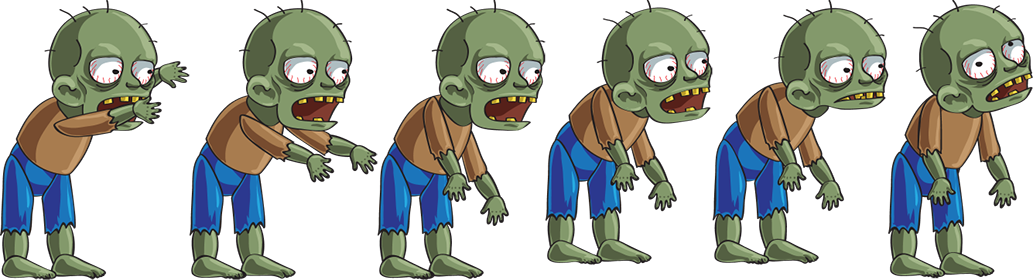
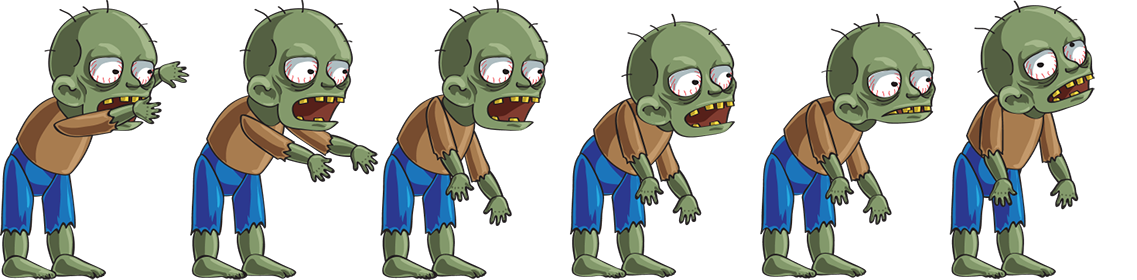
player movement

diff --git a/javascripts/GameObjects/Player.js b/javascripts/GameObjects/Player.js
@@ -11,6 +11,8 @@ class Player
         this.walking=new Animation('./images/walking.png',280,1196,129,64,8);
         this.shooting=new Animation('./images/shooting.png',280,1168,129,90,6);
         this.dead=new Animation('./images/dead.png',280,1504,129,116,6,false);
+        // this.jumpUp=new Animation('');
+        // this.fallingDown=new Animation('');
         this.whenDamaged=new Image();
         this.whenDamaged.src='./images/whenDamage.png';
 
@@ -45,9 +47,11 @@ class Player
             this.velocity.y-=118;
             inputController.reset();
         }
-        if(inputController.isKeyDown(32)&&this.onTheGround)
+        if(inputController.isKeyDown(32)&&this.onTheGround&&!this.shootingState)
         {
-           // this.shootingState=true;
+            this.shootingState=true;
+            this.animationState.current=this.animationState.shooting;
+            this.shooting.start();
             inputController.reset();
         }
     }
@@ -58,14 +62,20 @@ class Player
             if(this.velocity.x>2||this.velocity.x<-2)
             this.animationState.current=this.animationState.walking;
             else if(this.shootingState)
-            this.animationState.current=this.animationState.shooting;
+            {
+                console.log(this.shooting.getFrameIndex());
+                if(this.shooting.getFrameIndex()==5)
+                {
+                    this.shootingState=false;
+                }     
+            }
             else
             this.animationState.current=this.animationState.idle;
 
-            if(this.velocity.x<=0)
-            this.mirrored=1;
-            else
+            if(this.velocity.x>=0)
             this.mirrored=0;
+            else
+            this.mirrored=1;
 
             this.position.x+=this.velocity.x;
             this.velocity.x*=this.friction;
@@ -95,18 +105,18 @@ class Player
             // canvasContext.fillRect(0,0,this.width,this.height);
             if(this.previousHealth!=this.health)
             {
-                canvasContext.drawImage(this.whenDamaged,0,0,116,129);
+                canvasContext.drawImage(this.whenDamaged,-25,0,116,129);
             }
             else
             {
                 if(this.animationState.current==this.animationState.idle)
-            this.idle.draw(canvasContext,0,0);
-            if(this.animationState.current==this.animationState.walking)
-            this.walking.draw(canvasContext,0,0);
-            if(this.animationState.current==this.animationState.shooting)
-            this.shooting.draw(canvasContext,0,0);
-            if(this.animationState.current==this.animationState.dead)
-            this.dead.draw(canvasContext,0,0);
+                this.idle.draw(canvasContext,0,0);
+                if(this.animationState.current==this.animationState.walking)
+                this.walking.draw(canvasContext,0,0);
+                if(this.animationState.current==this.animationState.shooting)
+                this.shooting.draw(canvasContext,0,0);
+                if(this.animationState.current==this.animationState.dead)
+                this.dead.draw(canvasContext,-25,0);
             }
             
             canvasContext.restore();
@@ -128,7 +138,7 @@ class Player
             if(this.animationState.current==this.animationState.shooting)
             this.shooting.draw(canvasContext,this.position.x,this.position.y);
             if(this.animationState.current==this.animationState.dead)
-            this.dead.draw(canvasContext,this.position.x,this.position.y);
+            this.dead.draw(canvasContext,this.position.x-25,this.position.y);
             }
         }
         this.previousHealth=this.health;

diff --git a/javascripts/GameObjects/Enemy/Zombie.js b/javascripts/GameObjects/Enemy/Zombie.js
@@ -8,8 +8,8 @@ class Zombie
         this.animationState={current:0,idle:0,walking:1,shooting:2};
         
         this.idle=new Animation('./images/zombie_idle.png',280,700,111,69,4);
-        this.walking=new Animation('./images/zombie_walking.png',280,887,111,70,6);
-        this.attacking=new Animation('./images/zombie_attacking.png',280,1033,111,70,6);
+        this.walking=new Animation('./images/zombie_walking.png',280,999,111,66,6);
+        this.attacking=new Animation('./images/zombie_attacking.png',280,1137,111,75,6);
 
         this.position={x:290,y:550};
         this.height=111;

diff --git a/javascripts/GameWorld.js b/javascripts/GameWorld.js
@@ -25,7 +25,7 @@ class GameWorld
     }
     draw(canvasContext)
     {
-        canvasContext.drawImage(this.background,0,0,1280,1280);
+        canvasContext.drawImage(this.background,0,0,1920,1080);
         this.tileMap.draw(canvasContext);
         this.player.draw(canvasContext);
         this.zombie.draw(canvasContext);

diff --git a/javascripts/Utilities/Animation.js b/javascripts/Utilities/Animation.js
@@ -31,6 +31,10 @@ class Animation
             this.tickCount=0;
         }
     }
+    start() 
+    {
+        this.frameIndex=0;
+    }
     getFrameIndex()
     {
         return this.frameIndex;
